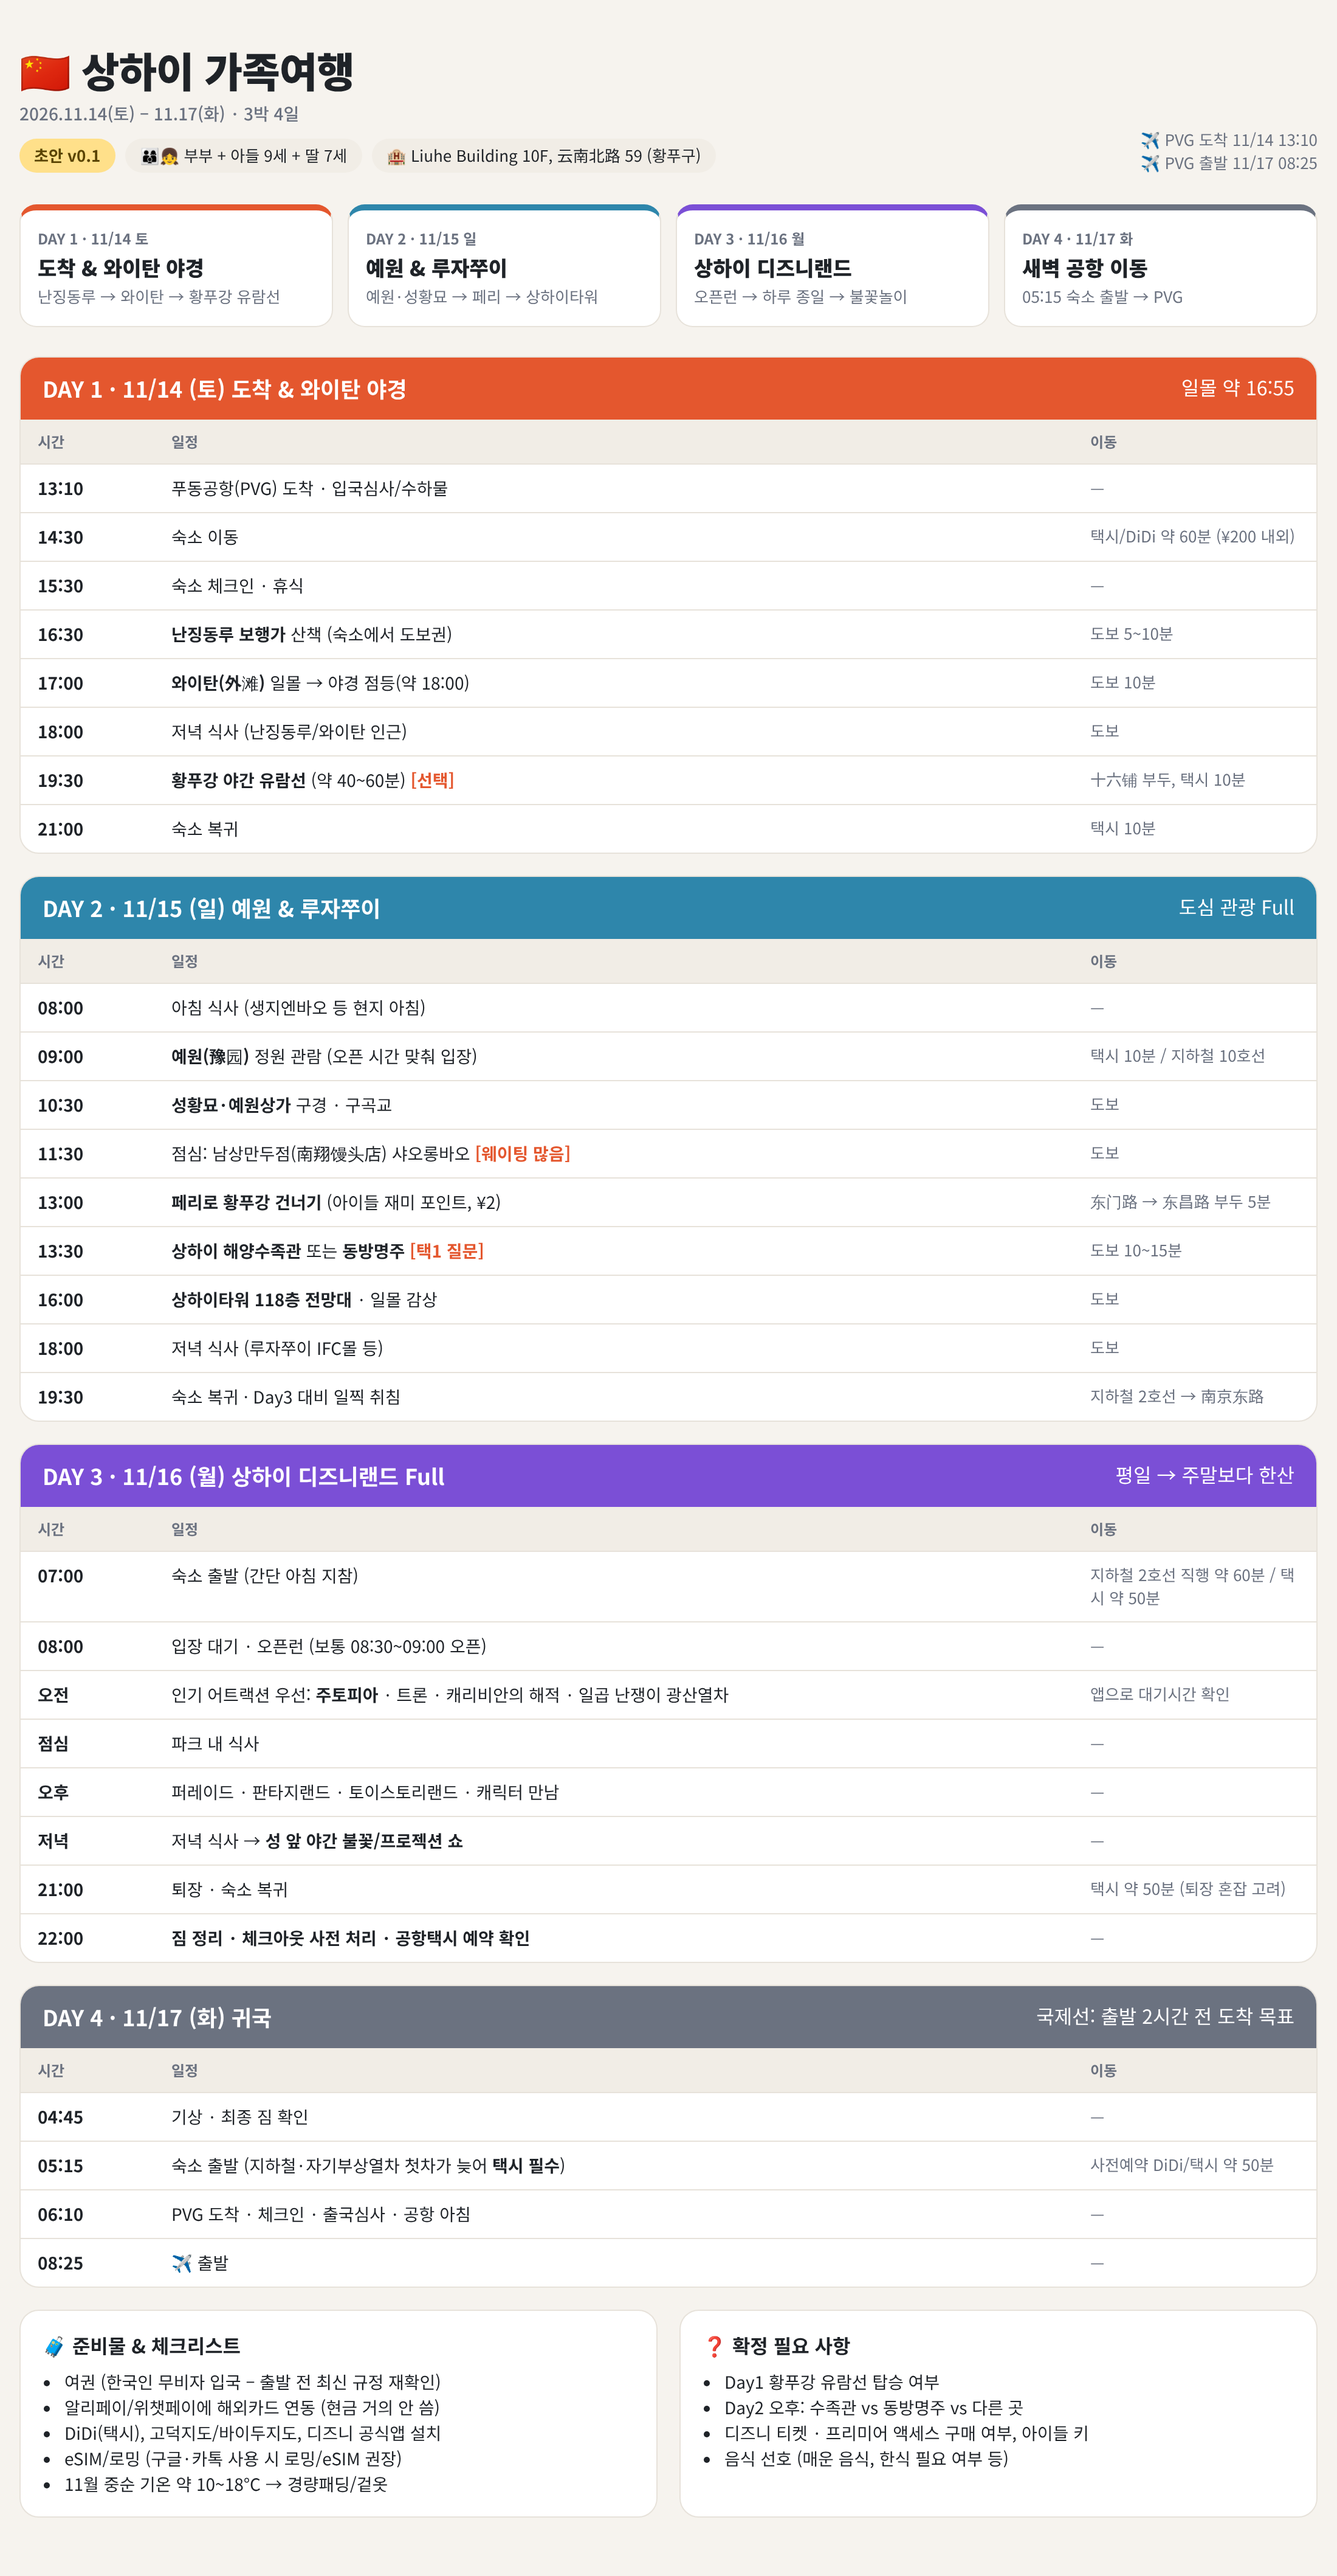
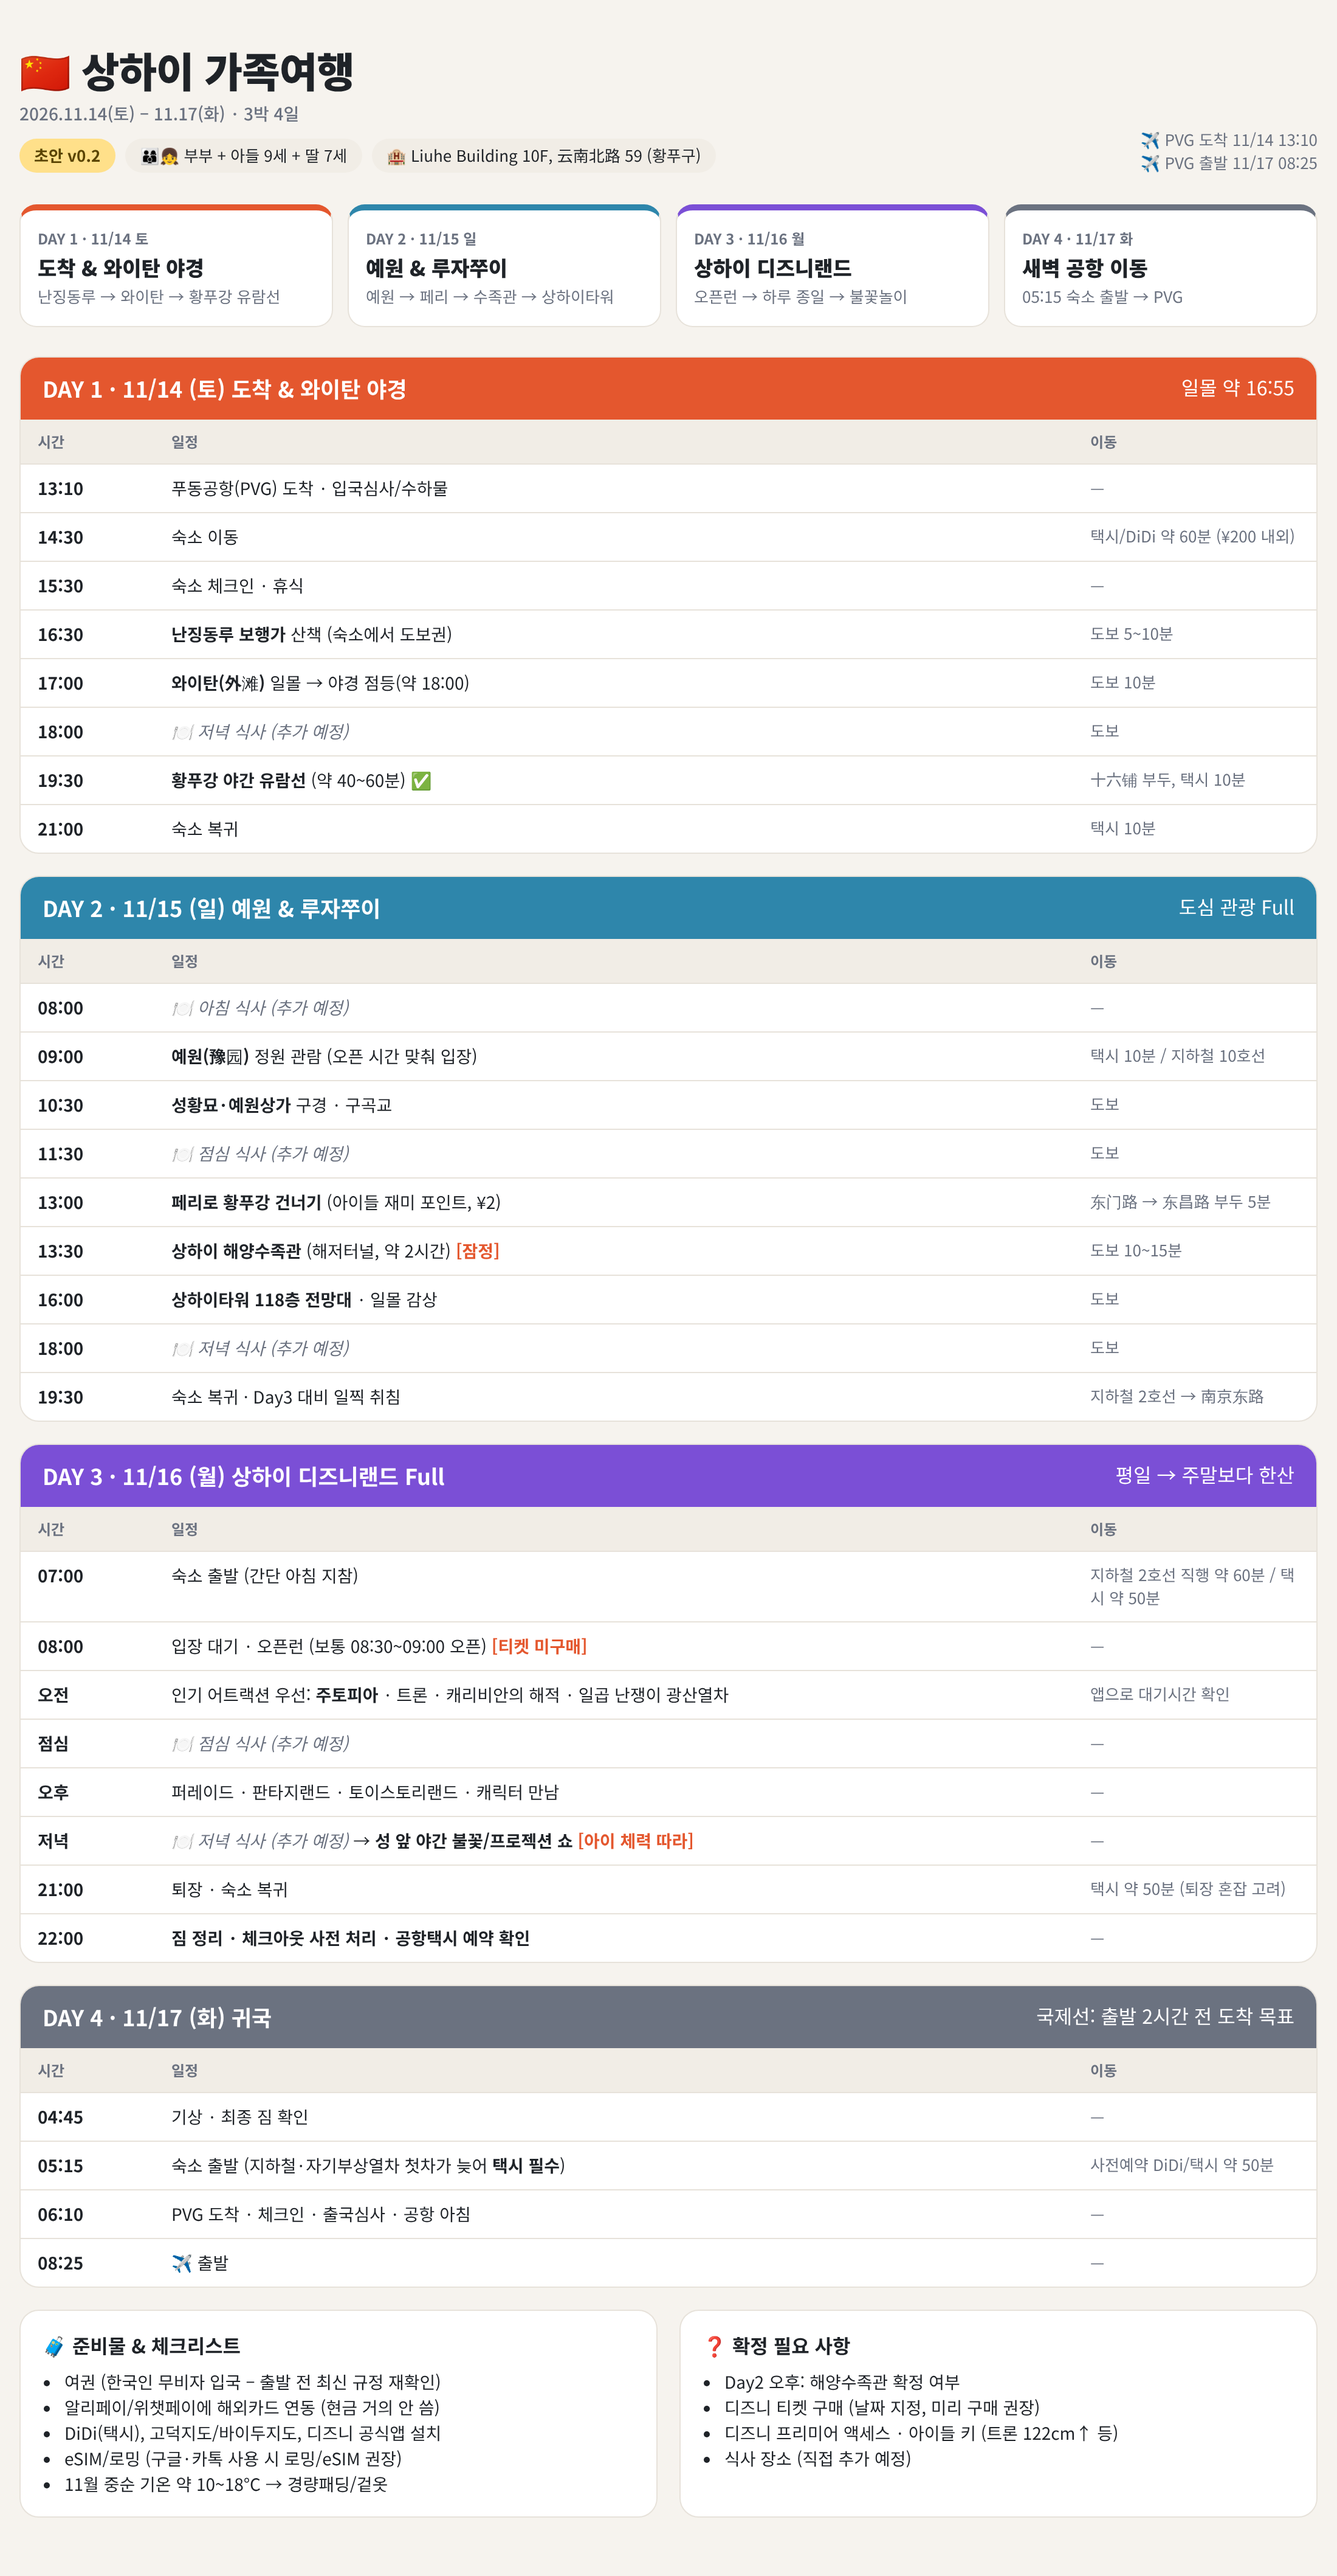
Itinerary v0.2: confirm river cruise, tentative aquarium, blank meal slots
Claude-Session: https://claude.ai/code/session_01FtyK4HJW4ZkDiHshS9yHtF

diff --git a/index.html b/index.html
@@ -44,6 +44,7 @@
   td.move{color:var(--muted);font-size:13px;width:200px}
   tr:last-child td{border-bottom:0}
   .q{color:var(--d1);font-weight:700}
+  .meal{color:var(--muted);font-style:italic}
   .note{background:var(--card);border:1px solid var(--line);border-radius:16px;padding:16px 18px}
   .note h3{margin:0 0 8px;font-size:16px}
   .note ul{margin:0;padding-left:18px;font-size:14px}
@@ -62,7 +63,7 @@
     <div>
       <h1>🇨🇳 상하이 가족여행 <small>2026.11.14(토) – 11.17(화) · 3박 4일</small></h1>
       <div style="margin-top:8px">
-        <span class="badge draft">초안 v0.1</span>
+        <span class="badge draft">초안 v0.2</span>
         <span class="badge">👨👩👦👧 부부 + 아들 9세 + 딸 7세</span>
         <span class="badge">🏨 Liuhe Building 10F, 云南北路 59 (황푸구)</span>
       </div>
@@ -74,7 +75,7 @@
 
   <section class="summary">
     <div class="sum" style="--c:var(--d1)"><div class="d">DAY 1 · 11/14 토</div><div class="t">도착 &amp; 와이탄 야경</div><div class="s">난징동루 → 와이탄 → 황푸강 유람선</div></div>
-    <div class="sum" style="--c:var(--d2)"><div class="d">DAY 2 · 11/15 일</div><div class="t">예원 &amp; 루자쭈이</div><div class="s">예원·성황묘 → 페리 → 상하이타워</div></div>
+    <div class="sum" style="--c:var(--d2)"><div class="d">DAY 2 · 11/15 일</div><div class="t">예원 &amp; 루자쭈이</div><div class="s">예원 → 페리 → 수족관 → 상하이타워</div></div>
     <div class="sum" style="--c:var(--d3)"><div class="d">DAY 3 · 11/16 월</div><div class="t">상하이 디즈니랜드</div><div class="s">오픈런 → 하루 종일 → 불꽃놀이</div></div>
     <div class="sum" style="--c:var(--d4)"><div class="d">DAY 4 · 11/17 화</div><div class="t">새벽 공항 이동</div><div class="s">05:15 숙소 출발 → PVG</div></div>
   </section>
@@ -88,8 +89,8 @@
       <tr><td class="time">15:30</td><td>숙소 체크인 · 휴식</td><td class="move">—</td></tr>
       <tr><td class="time">16:30</td><td><b>난징동루 보행가</b> 산책 (숙소에서 도보권)</td><td class="move">도보 5~10분</td></tr>
       <tr><td class="time">17:00</td><td><b>와이탄(外滩)</b> 일몰 → 야경 점등(약 18:00)</td><td class="move">도보 10분</td></tr>
-      <tr><td class="time">18:00</td><td>저녁 식사 (난징동루/와이탄 인근)</td><td class="move">도보</td></tr>
-      <tr><td class="time">19:30</td><td><b>황푸강 야간 유람선</b> (약 40~60분) <span class="q">[선택]</span></td><td class="move">十六铺 부두, 택시 10분</td></tr>
+      <tr><td class="time">18:00</td><td class="meal">🍽 저녁 식사 (추가 예정)</td><td class="move">도보</td></tr>
+      <tr><td class="time">19:30</td><td><b>황푸강 야간 유람선</b> (약 40~60분) ✅</td><td class="move">十六铺 부두, 택시 10분</td></tr>
       <tr><td class="time">21:00</td><td>숙소 복귀</td><td class="move">택시 10분</td></tr>
     </table>
   </div>
@@ -98,14 +99,14 @@
     <div class="dayhead"><b>DAY 2 · 11/15 (일) 예원 &amp; 루자쭈이</b><span>도심 관광 Full</span></div>
     <table>
       <tr><th>시간</th><th>일정</th><th>이동</th></tr>
-      <tr><td class="time">08:00</td><td>아침 식사 (생지엔바오 등 현지 아침)</td><td class="move">—</td></tr>
+      <tr><td class="time">08:00</td><td class="meal">🍽 아침 식사 (추가 예정)</td><td class="move">—</td></tr>
       <tr><td class="time">09:00</td><td><b>예원(豫园)</b> 정원 관람 (오픈 시간 맞춰 입장)</td><td class="move">택시 10분 / 지하철 10호선</td></tr>
       <tr><td class="time">10:30</td><td><b>성황묘·예원상가</b> 구경 · 구곡교</td><td class="move">도보</td></tr>
-      <tr><td class="time">11:30</td><td>점심: 남상만두점(南翔馒头店) 샤오롱바오 <span class="q">[웨이팅 많음]</span></td><td class="move">도보</td></tr>
+      <tr><td class="time">11:30</td><td class="meal">🍽 점심 식사 (추가 예정)</td><td class="move">도보</td></tr>
       <tr><td class="time">13:00</td><td><b>페리로 황푸강 건너기</b> (아이들 재미 포인트, ¥2)</td><td class="move">东门路 → 东昌路 부두 5분</td></tr>
-      <tr><td class="time">13:30</td><td><b>상하이 해양수족관</b> 또는 <b>동방명주</b> <span class="q">[택1 질문]</span></td><td class="move">도보 10~15분</td></tr>
+      <tr><td class="time">13:30</td><td><b>상하이 해양수족관</b> (해저터널, 약 2시간) <span class="q">[잠정]</span></td><td class="move">도보 10~15분</td></tr>
       <tr><td class="time">16:00</td><td><b>상하이타워 118층 전망대</b> · 일몰 감상</td><td class="move">도보</td></tr>
-      <tr><td class="time">18:00</td><td>저녁 식사 (루자쭈이 IFC몰 등)</td><td class="move">도보</td></tr>
+      <tr><td class="time">18:00</td><td class="meal">🍽 저녁 식사 (추가 예정)</td><td class="move">도보</td></tr>
       <tr><td class="time">19:30</td><td>숙소 복귀 · Day3 대비 일찍 취침</td><td class="move">지하철 2호선 → 南京东路</td></tr>
     </table>
   </div>
@@ -115,11 +116,11 @@
     <table>
       <tr><th>시간</th><th>일정</th><th>이동</th></tr>
       <tr><td class="time">07:00</td><td>숙소 출발 (간단 아침 지참)</td><td class="move">지하철 2호선 직행 약 60분 / 택시 약 50분</td></tr>
-      <tr><td class="time">08:00</td><td>입장 대기 · 오픈런 (보통 08:30~09:00 오픈)</td><td class="move">—</td></tr>
+      <tr><td class="time">08:00</td><td>입장 대기 · 오픈런 (보통 08:30~09:00 오픈) <span class="q">[티켓 미구매]</span></td><td class="move">—</td></tr>
       <tr><td class="time">오전</td><td>인기 어트랙션 우선: <b>주토피아</b> · 트론 · 캐리비안의 해적 · 일곱 난쟁이 광산열차</td><td class="move">앱으로 대기시간 확인</td></tr>
-      <tr><td class="time">점심</td><td>파크 내 식사</td><td class="move">—</td></tr>
+      <tr><td class="time">점심</td><td class="meal">🍽 점심 식사 (추가 예정)</td><td class="move">—</td></tr>
       <tr><td class="time">오후</td><td>퍼레이드 · 판타지랜드 · 토이스토리랜드 · 캐릭터 만남</td><td class="move">—</td></tr>
-      <tr><td class="time">저녁</td><td>저녁 식사 → <b>성 앞 야간 불꽃/프로젝션 쇼</b></td><td class="move">—</td></tr>
+      <tr><td class="time">저녁</td><td><span class="meal">🍽 저녁 식사 (추가 예정)</span> → <b>성 앞 야간 불꽃/프로젝션 쇼</b> <span class="q">[아이 체력 따라]</span></td><td class="move">—</td></tr>
       <tr><td class="time">21:00</td><td>퇴장 · 숙소 복귀</td><td class="move">택시 약 50분 (퇴장 혼잡 고려)</td></tr>
       <tr><td class="time">22:00</td><td><b>짐 정리 · 체크아웃 사전 처리 · 공항택시 예약 확인</b></td><td class="move">—</td></tr>
     </table>
@@ -150,10 +151,10 @@
     <div class="note">
       <h3>❓ 확정 필요 사항</h3>
       <ul>
-        <li>Day1 황푸강 유람선 탑승 여부</li>
-        <li>Day2 오후: 수족관 vs 동방명주 vs 다른 곳</li>
-        <li>디즈니 티켓 · 프리미어 액세스 구매 여부, 아이들 키</li>
-        <li>음식 선호 (매운 음식, 한식 필요 여부 등)</li>
+        <li>Day2 오후: 해양수족관 확정 여부</li>
+        <li>디즈니 티켓 구매 (날짜 지정, 미리 구매 권장)</li>
+        <li>디즈니 프리미어 액세스 · 아이들 키 (트론 122cm↑ 등)</li>
+        <li>식사 장소 (직접 추가 예정)</li>
       </ul>
     </div>
   </div>

diff --git a/README.md b/README.md
@@ -1,4 +1,4 @@
-# 상하이 가족여행 (2026.11.14 ~ 11.17, 3박 4일) — 초안 v0.1
+# 상하이 가족여행 (2026.11.14 ~ 11.17, 3박 4일) — 초안 v0.2
 
 - 인원: 부부 + 아들 9세 + 딸 7세
 - 숙소: Liuhe Building 10F, 59 Yunnan North Rd, 황푸구
@@ -8,8 +8,8 @@
 
 | 일자 | 테마 | 주요 일정 |
 |---|---|---|
-| Day1 11/14(토) | 도착 & 야경 | 공항→숙소, 난징동루, 와이탄 일몰·야경, 황푸강 유람선(선택) |
-| Day2 11/15(일) | 예원 & 루자쭈이 | 예원·성황묘, 샤오롱바오, 페리, 수족관/동방명주, 상하이타워 |
+| Day1 11/14(토) | 도착 & 야경 | 공항→숙소, 난징동루, 와이탄 일몰·야경, 황푸강 유람선 |
+| Day2 11/15(일) | 예원 & 루자쭈이 | 예원·성황묘, 페리, 해양수족관(잠정), 상하이타워 |
 | Day3 11/16(월) | 디즈니랜드 | 오픈런 ~ 야간쇼, 귀가 후 짐정리 |
 | Day4 11/17(화) | 귀국 | 05:15 택시 출발 → PVG 08:25 |
 
